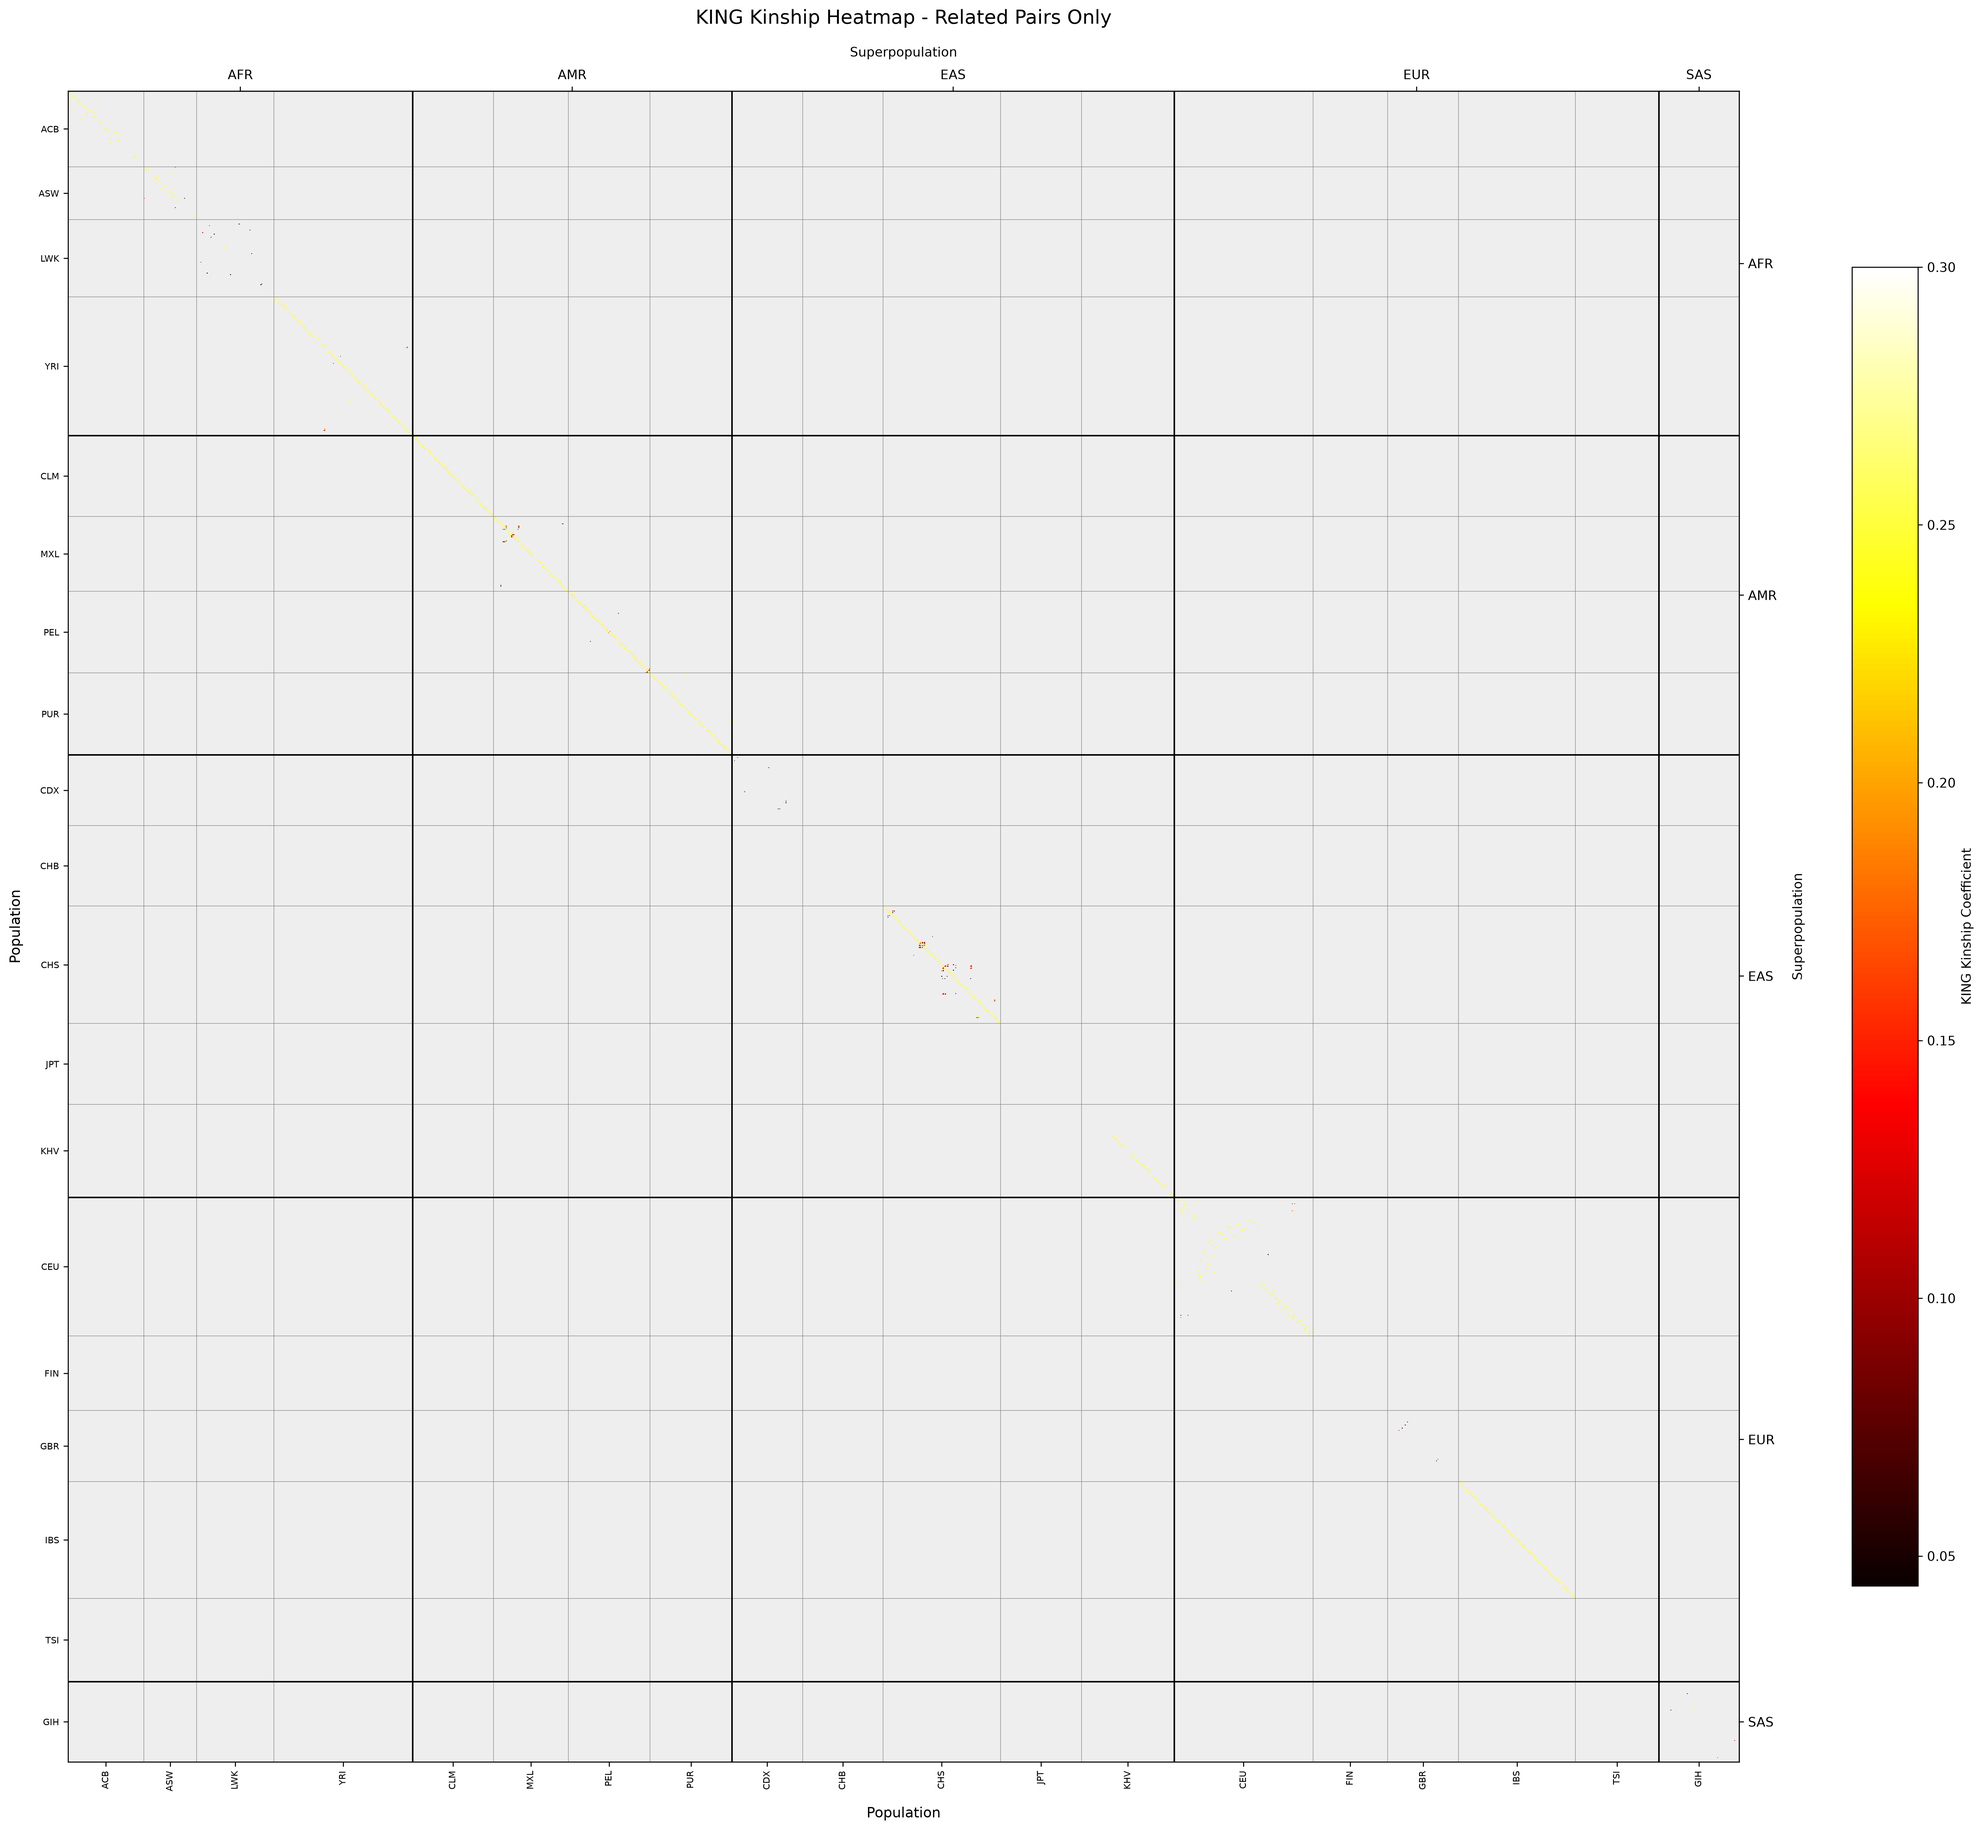
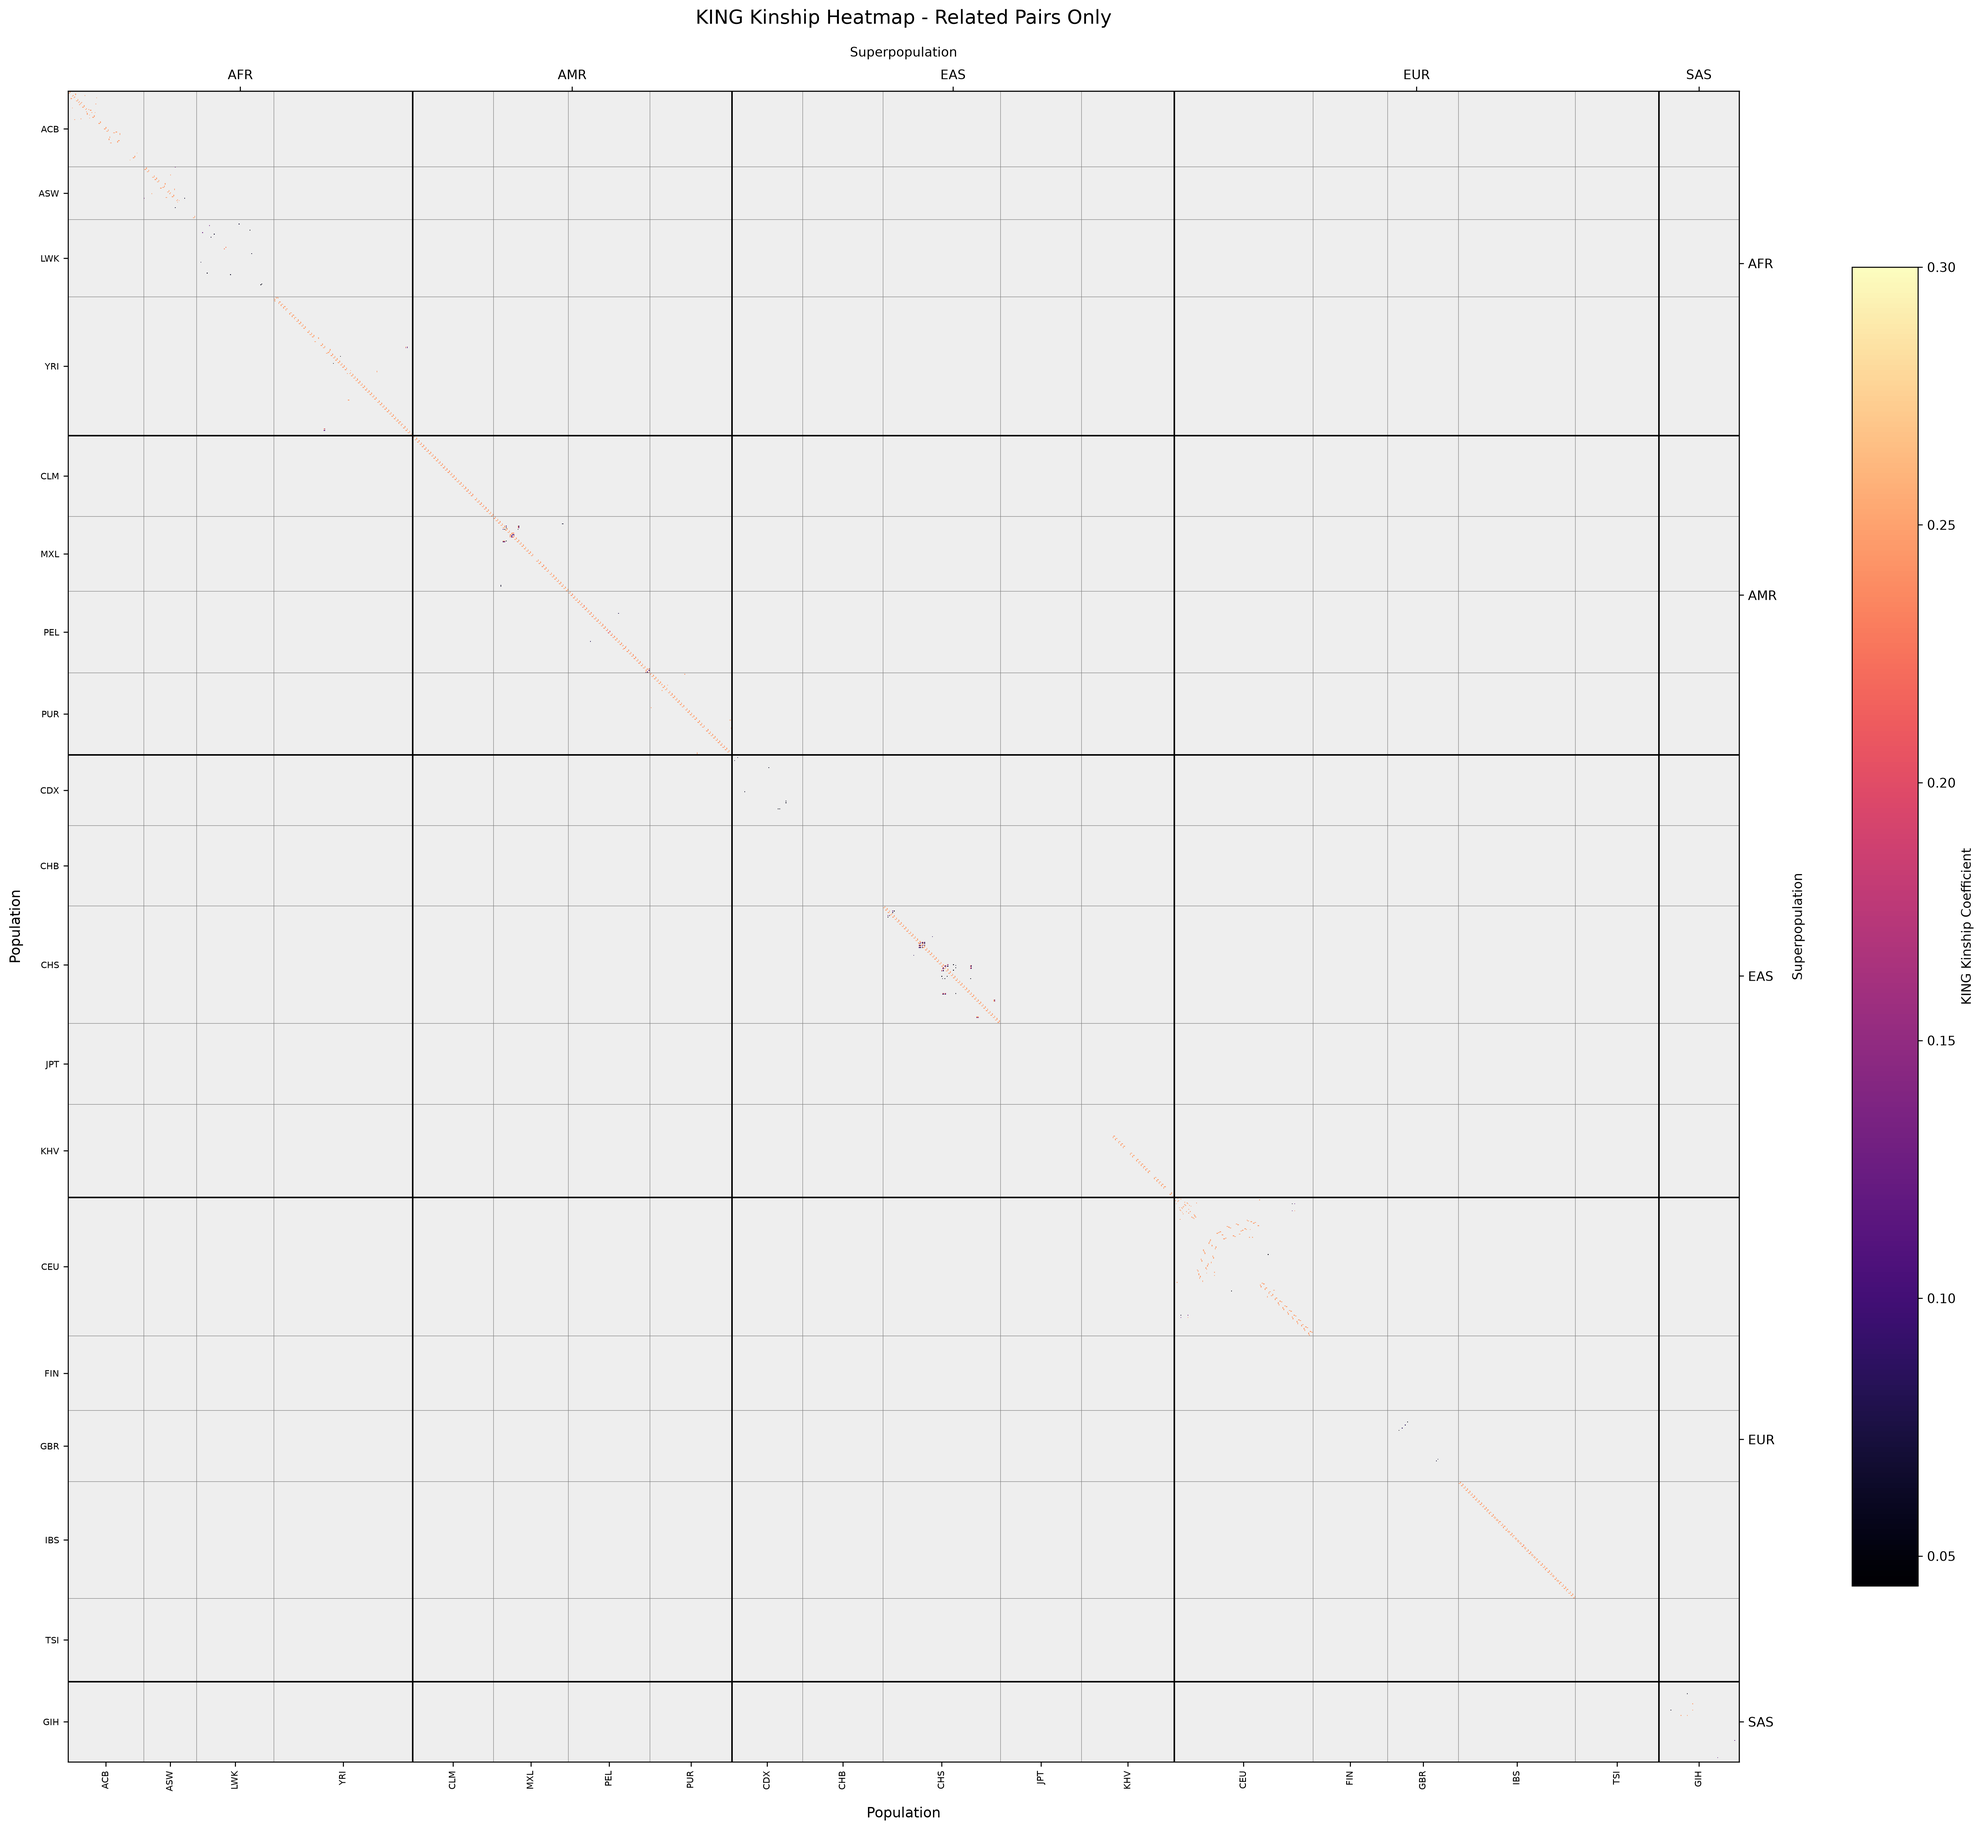
modify relatedness plots color

Changed region(s): [[0.9374, 0.1247, 0.9686, 0.8728]]

diff --git a/snp_array/scripts/Relatedness/02_plot_relatedness.py b/snp_array/scripts/Relatedness/02_plot_relatedness.py
@@ -261,7 +261,7 @@ plot_heatmap(
     "KING Kinship Heatmap - Related Pairs Only",
     vmin=0.0442,
     vmax=0.30,
-    cmap_name="hot",
+    cmap_name="magma",
     missing_color="#eeeeee"
 )
 
